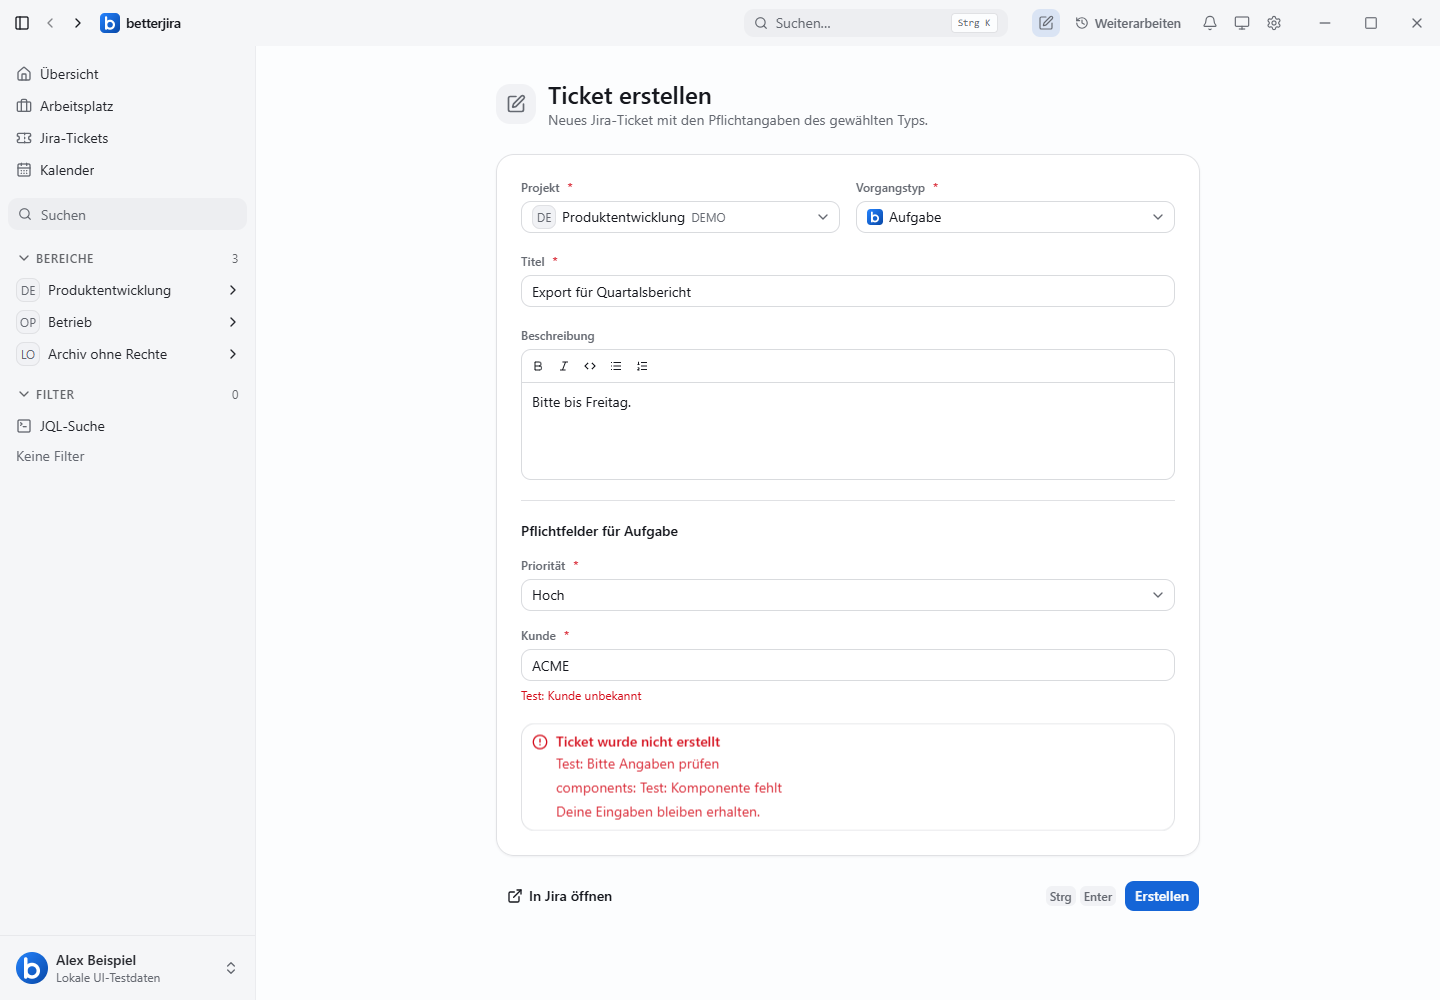
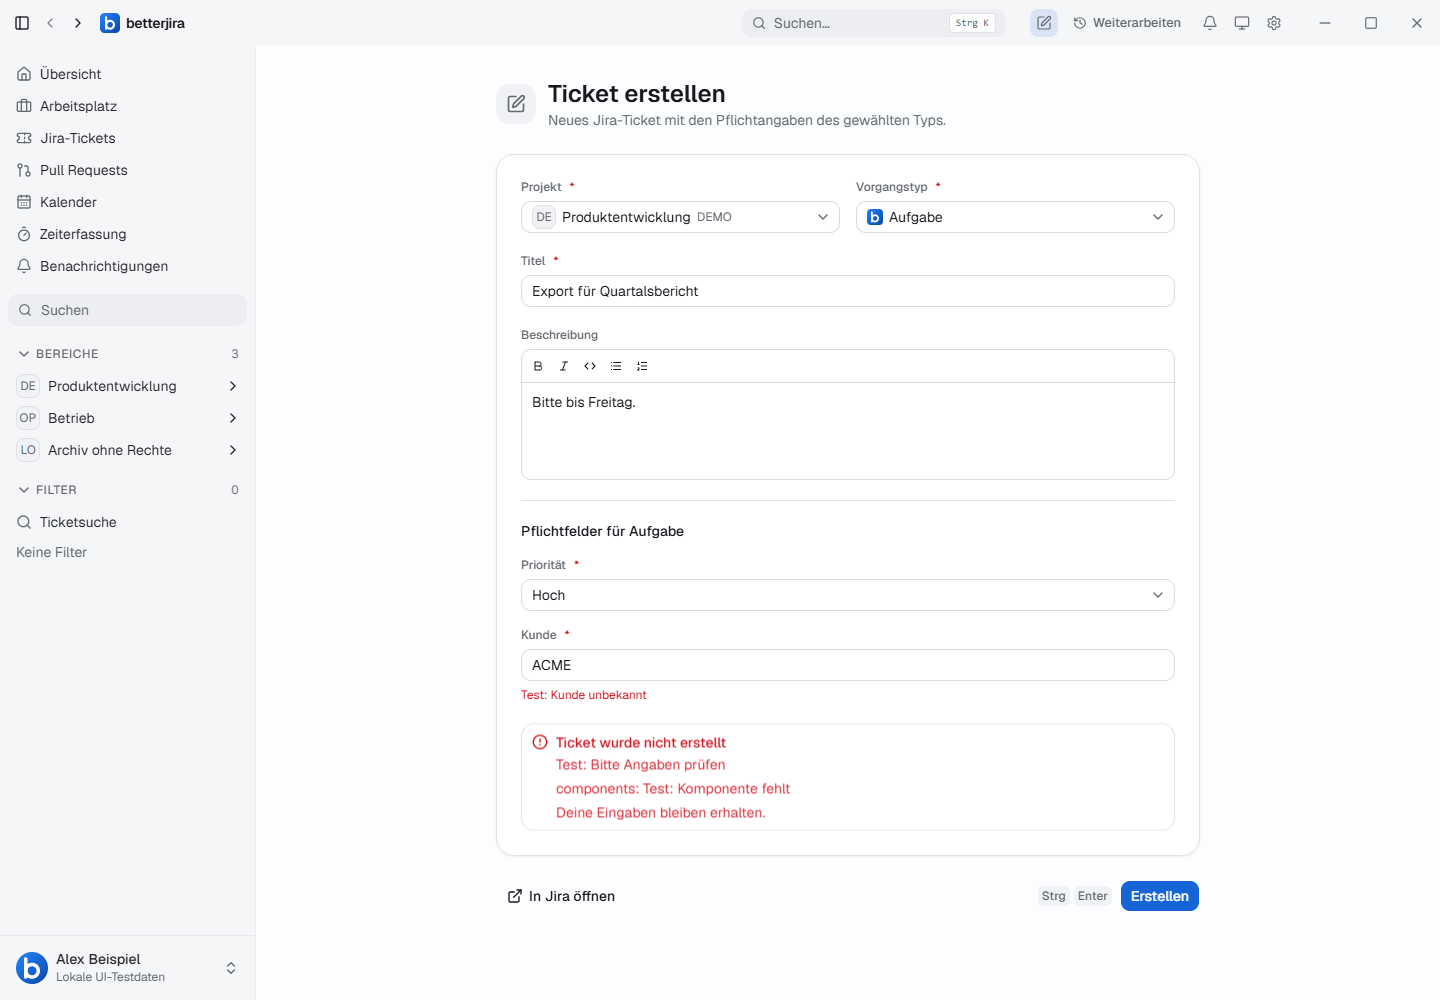
test(create): verify fonts and refresh integrated screenshots

diff --git a/tests/browser/create-issue.e2e.ts b/tests/browser/create-issue.e2e.ts
@@ -19,7 +19,16 @@ declare global {
 
 const shots = process.env.CREATE_ISSUE_SHOTS;
 
-const open = (page: Page) => page.goto("/tests/browser/fixture.html?scenario=create&route=/neu");
+const open = async (page: Page) => {
+  await page.goto("/tests/browser/fixture.html?scenario=create&route=/neu");
+  if (shots) {
+    await expect(page.getByRole("heading", { name: "Ticket erstellen", exact: true })).toBeVisible();
+    expect(await page.evaluate(async () => {
+      await document.fonts.ready;
+      return document.fonts.check('14px "Geist Variable"');
+    })).toBe(true);
+  }
+};
 const main = (page: Page) => page.getByRole("main");
 const posts = (page: Page) =>
   page.evaluate(() => window.__qa.writes.filter((write) => write.path === "/issue" && write.method === "POST"));
